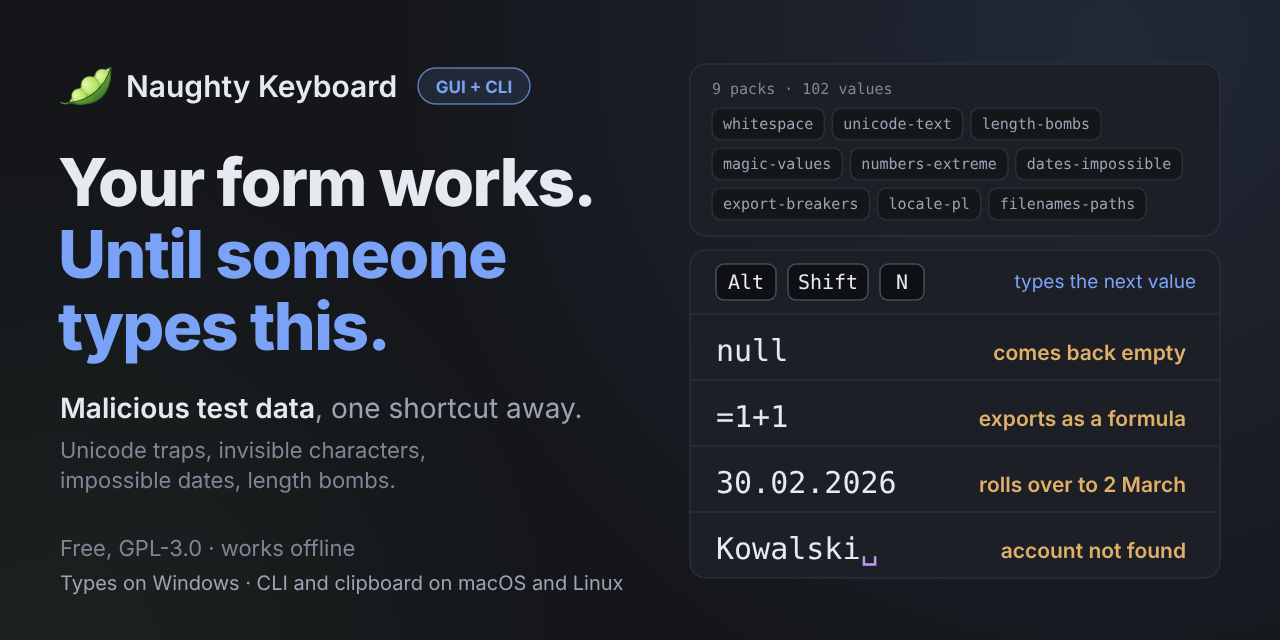
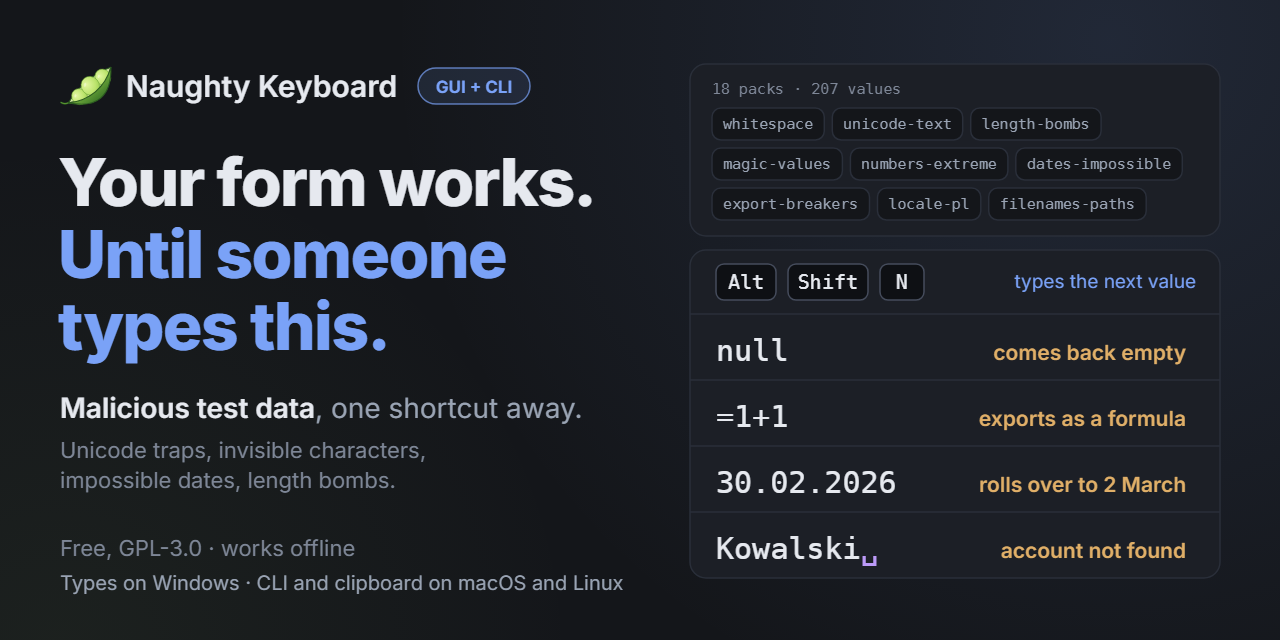
Say eighteen packs and 207 values on the social preview
The picture counts the packs again from nkb packs, and its nine chips are now
named as the first nine of them. It was rendered again from the drawing, and
the only pixels that changed are those of the count line. The README of the
picture says how to render it without installing either typeface, and names
the two things that moved the picture on Windows: the display cut of the
variable Inter and the coloured edges of subpixel smoothing.

diff --git a/.github/social-preview/README.md b/.github/social-preview/README.md
@@ -32,6 +32,22 @@ is the values, and the product ships it in `crates/nkb-gui/ui/fonts`. Without
 either one the browser substitutes another and the layout moves, so look at the
 result before committing it.
 
+Two more things move the picture, both found when it was rendered again on
+Windows on 2026-10-14:
+
+- Inter 4 as the variable font switches to its display cut at large sizes, and
+  the headline comes out about 30 pixels narrower. Use the static Inter, or turn
+  optical sizing off (`font-optical-sizing: none`).
+- Chromium on Windows draws text with the coloured edges of subpixel smoothing,
+  which do not belong in a picture shown on every kind of screen. Start the
+  browser with `--disable-lcd-text`. The `playwright screenshot` command does not
+  pass browser flags, so a short script with the `playwright` package does it,
+  with `chromium.launch({ args: ['--disable-lcd-text'] })`.
+
+Neither typeface has to be installed for this: a temporary copy of the drawing,
+next to it, with a `<style>` block of `@font-face` rules pointing at the two font
+files renders the same picture. Delete the copy afterwards.
+
 The icon is read from `crates/nkb-gui/assets/edamame.svg` and not copied, so a
 new icon shows up here the next time the picture is rendered.
 
@@ -62,7 +78,7 @@ checked again when its source changes.
 | what each of them does | the `breaks` field of that value |
 | the open box after `Kowalski` | the marker the palette prints for an invisible character, from `crates/nkb-core/src/preview.rs` |
 | Alt, Shift, N, "types the next value" | the default shortcut for the next value |
-| 9 packs, 102 values, and the nine chips | `nkb packs`, which lists the nine packs in that order and ends with "9 of 9 packs loaded, 102 values". Counted on 2026-10-07 |
+| 18 packs, 207 values, and the nine chips | `nkb packs`, which ends with "18 of 18 packs loaded, 207 values". The chips are the first nine packs it lists, in that order. Counted on 2026-10-14 |
 | Types on Windows | typing into another window exists only there, and `send_text` in `nkb-sys` answers `Unsupported` elsewhere |
 | CLI and clipboard on macOS and Linux | the commands other than `send` do not touch the system, and were run on Linux on 2026-10-07 (`packs`, `emit`). Where there is no direct route the palette starts in clipboard mode, which is read from `crates/nkb-gui/src/live.rs` and was not run on macOS or Linux |
 | works offline | nothing in the workspace opens a network connection |

diff --git a/README.md b/README.md
@@ -32,7 +32,7 @@ A window and a command line, over one engine.
 ⭐ **If it found the bug your users would have found, leave a star.** That is how the next tester who
 needs it finds out it exists.
 
-![Naughty Keyboard: Your form works. Until someone types this. Nine packs of values, and a card showing what null, =1+1, 30.02.2026 and a trailing space do to a form.](.github/social-preview/social-preview.png)
+![Naughty Keyboard: Your form works. Until someone types this. Eighteen packs of values, and a card showing what null, =1+1, 30.02.2026 and a trailing space do to a form.](.github/social-preview/social-preview.png)
 
 **What it can do**
 
